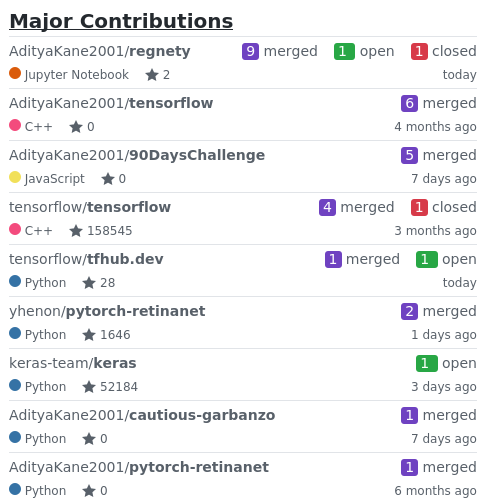
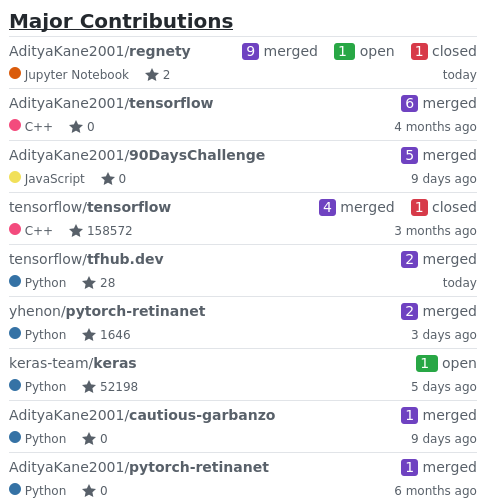
Update resources

diff --git a/contributions.html b/contributions.html
@@ -167,7 +167,7 @@ fieldset{padding:0;margin:0;border:0}label{font-weight:600}.form-control,.form-s
                         </path>
                     </svg>&nbsp;0</div>
             </div>
-            <div class="f6 mt-1">7 days ago</div>
+            <div class="f6 mt-1">9 days ago</div>
         </div>
     </div>
         <div class="border-top py-1">
@@ -194,7 +194,7 @@ fieldset{padding:0;margin:0;border:0}label{font-weight:600}.form-control,.form-s
                         <path fill-rule="evenodd"
                             d="M14 6l-4.9-.64L7 1 4.9 5.36 0 6l3.6 3.26L2.67 14 7 11.67 11.33 14l-.93-4.74L14 6z">
                         </path>
-                    </svg>&nbsp;158545</div>
+                    </svg>&nbsp;158572</div>
             </div>
             <div class="f6 mt-1">3 months ago</div>
         </div>
@@ -208,11 +208,7 @@ fieldset{padding:0;margin:0;border:0}label{font-weight:600}.form-control,.form-s
             <div><a target="_blank" class="link-gray no-underline"
             href=https://github.com/search?q=is%3Apr+repo%3Atensorflow%2Ftfhub.dev+author%3AAdityaKane2001+is%3Amerged
             style="cursor: pointer;"><span class="counter merged">
-            1</span>&nbsp;merged</a></div>
-            <div><a target="_blank" class="link-gray no-underline"
-            href=https://github.com/search?q=is%3Apr+repo%3Atensorflow%2Ftfhub.dev+author%3AAdityaKane2001+is%3Aopen
-            style="cursor: pointer;"><span class="counter open">1
-            </span>&nbsp;open</a></div> 
+            2</span>&nbsp;merged</a></div>
         </div>
         </div>
         <div class="d-flex flex-justify-between text-gray">
@@ -252,7 +248,7 @@ fieldset{padding:0;margin:0;border:0}label{font-weight:600}.form-control,.form-s
                         </path>
                     </svg>&nbsp;1646</div>
             </div>
-            <div class="f6 mt-1">1 days ago</div>
+            <div class="f6 mt-1">3 days ago</div>
         </div>
     </div>
         <div class="border-top py-1">
@@ -276,9 +272,9 @@ fieldset{padding:0;margin:0;border:0}label{font-weight:600}.form-control,.form-s
                         <path fill-rule="evenodd"
                             d="M14 6l-4.9-.64L7 1 4.9 5.36 0 6l3.6 3.26L2.67 14 7 11.67 11.33 14l-.93-4.74L14 6z">
                         </path>
-                    </svg>&nbsp;52184</div>
+                    </svg>&nbsp;52198</div>
             </div>
-            <div class="f6 mt-1">3 days ago</div>
+            <div class="f6 mt-1">5 days ago</div>
         </div>
     </div>
         <div class="border-top py-1">
@@ -304,7 +300,7 @@ fieldset{padding:0;margin:0;border:0}label{font-weight:600}.form-control,.form-s
                         </path>
                     </svg>&nbsp;0</div>
             </div>
-            <div class="f6 mt-1">7 days ago</div>
+            <div class="f6 mt-1">9 days ago</div>
         </div>
     </div>
         <div class="border-top py-1">
@@ -359,7 +355,7 @@ fieldset{padding:0;margin:0;border:0}label{font-weight:600}.form-control,.form-s
                         </path>
                     </svg>&nbsp;2</div>
             </div>
-            <div class="f6 mt-1">6 days ago</div>
+            <div class="f6 mt-1">1 days ago</div>
         </div>
     </div>
         <div class="border-top py-1">
@@ -367,7 +363,11 @@ fieldset{padding:0;margin:0;border:0}label{font-weight:600}.form-control,.form-s
         <div><a target="_blank" class="link-gray no-underline"
         href="https://github.com/tensorflow/tensorflow"><span>tensorflow</span>/<span
         class="text-bold">tensorflow</span></a></div>
-        <div class="d-inline-flex flex-justify-end"><div><a target="_blank" class="link-gray no-underline"
+        <div class="d-inline-flex flex-justify-end">
+            <div><a target="_blank" class="link-gray no-underline"
+            href=https://github.com/search?q=is%3Aissue+repo%3Atensorflow%2Ftensorflow+author%3AAdityaKane2001+is%3Aopen
+            style="cursor: pointer;"><span class="counter open">1
+            </span>&nbsp;open</a></div> <div><a target="_blank" class="link-gray no-underline"
             href=https://github.com/search?q=is%3Aissue+repo%3Atensorflow%2Ftensorflow+author%3AAdityaKane2001+is%3Aclosed
             style="cursor: pointer;">
             <span class="counter closed">4</span>&nbsp;closed</a></div>
@@ -382,9 +382,9 @@ fieldset{padding:0;margin:0;border:0}label{font-weight:600}.form-control,.form-s
                         <path fill-rule="evenodd"
                             d="M14 6l-4.9-.64L7 1 4.9 5.36 0 6l3.6 3.26L2.67 14 7 11.67 11.33 14l-.93-4.74L14 6z">
                         </path>
-                    </svg>&nbsp;158545</div>
+                    </svg>&nbsp;158572</div>
             </div>
-            <div class="f6 mt-1">1 days ago</div>
+            <div class="f6 mt-1">today</div>
         </div>
     </div>
         <div class="border-top py-1">
@@ -395,8 +395,11 @@ fieldset{padding:0;margin:0;border:0}label{font-weight:600}.form-control,.form-s
         <div class="d-inline-flex flex-justify-end">
             <div><a target="_blank" class="link-gray no-underline"
             href=https://github.com/search?q=is%3Aissue+repo%3Akeras-team%2Fkeras+author%3AAdityaKane2001+is%3Aopen
-            style="cursor: pointer;"><span class="counter open">3
-            </span>&nbsp;open</a></div> 
+            style="cursor: pointer;"><span class="counter open">2
+            </span>&nbsp;open</a></div> <div><a target="_blank" class="link-gray no-underline"
+            href=https://github.com/search?q=is%3Aissue+repo%3Akeras-team%2Fkeras+author%3AAdityaKane2001+is%3Aclosed
+            style="cursor: pointer;">
+            <span class="counter closed">1</span>&nbsp;closed</a></div>
         </div>
         </div>
         <div class="d-flex flex-justify-between text-gray">
@@ -408,9 +411,9 @@ fieldset{padding:0;margin:0;border:0}label{font-weight:600}.form-control,.form-s
                         <path fill-rule="evenodd"
                             d="M14 6l-4.9-.64L7 1 4.9 5.36 0 6l3.6 3.26L2.67 14 7 11.67 11.33 14l-.93-4.74L14 6z">
                         </path>
-                    </svg>&nbsp;52184</div>
+                    </svg>&nbsp;52198</div>
             </div>
-            <div class="f6 mt-1">1 days ago</div>
+            <div class="f6 mt-1">today</div>
         </div>
     </div>
         <div class="border-top py-1">
@@ -437,9 +440,9 @@ fieldset{padding:0;margin:0;border:0}label{font-weight:600}.form-control,.form-s
                         <path fill-rule="evenodd"
                             d="M14 6l-4.9-.64L7 1 4.9 5.36 0 6l3.6 3.26L2.67 14 7 11.67 11.33 14l-.93-4.74L14 6z">
                         </path>
-                    </svg>&nbsp;1676</div>
+                    </svg>&nbsp;1681</div>
             </div>
-            <div class="f6 mt-1">19 days ago</div>
+            <div class="f6 mt-1">21 days ago</div>
         </div>
     </div>
         <div class="border-top py-1">
@@ -463,9 +466,9 @@ fieldset{padding:0;margin:0;border:0}label{font-weight:600}.form-control,.form-s
                         <path fill-rule="evenodd"
                             d="M14 6l-4.9-.64L7 1 4.9 5.36 0 6l3.6 3.26L2.67 14 7 11.67 11.33 14l-.93-4.74L14 6z">
                         </path>
-                    </svg>&nbsp;117</div>
+                    </svg>&nbsp;118</div>
             </div>
-            <div class="f6 mt-1">18 days ago</div>
+            <div class="f6 mt-1">20 days ago</div>
         </div>
     </div>
         <div class="border-top py-1">
@@ -488,9 +491,9 @@ fieldset{padding:0;margin:0;border:0}label{font-weight:600}.form-control,.form-s
                         <path fill-rule="evenodd"
                             d="M14 6l-4.9-.64L7 1 4.9 5.36 0 6l3.6 3.26L2.67 14 7 11.67 11.33 14l-.93-4.74L14 6z">
                         </path>
-                    </svg>&nbsp;5603</div>
+                    </svg>&nbsp;5608</div>
             </div>
-            <div class="f6 mt-1">15 days ago</div>
+            <div class="f6 mt-1">17 days ago</div>
         </div>
     </div>
         <div class="border-top py-1">
@@ -513,7 +516,7 @@ fieldset{padding:0;margin:0;border:0}label{font-weight:600}.form-control,.form-s
                         <path fill-rule="evenodd"
                             d="M14 6l-4.9-.64L7 1 4.9 5.36 0 6l3.6 3.26L2.67 14 7 11.67 11.33 14l-.93-4.74L14 6z">
                         </path>
-                    </svg>&nbsp;3482</div>
+                    </svg>&nbsp;3488</div>
             </div>
             <div class="f6 mt-1">2 months ago</div>
         </div>
@@ -614,7 +617,7 @@ fieldset{padding:0;margin:0;border:0}label{font-weight:600}.form-control,.form-s
                         <path fill-rule="evenodd"
                             d="M14 6l-4.9-.64L7 1 4.9 5.36 0 6l3.6 3.26L2.67 14 7 11.67 11.33 14l-.93-4.74L14 6z">
                         </path>
-                    </svg>&nbsp;534</div>
+                    </svg>&nbsp;536</div>
             </div>
             <div class="f6 mt-1">4 months ago</div>
         </div>
@@ -639,7 +642,7 @@ fieldset{padding:0;margin:0;border:0}label{font-weight:600}.form-control,.form-s
                         <path fill-rule="evenodd"
                             d="M14 6l-4.9-.64L7 1 4.9 5.36 0 6l3.6 3.26L2.67 14 7 11.67 11.33 14l-.93-4.74L14 6z">
                         </path>
-                    </svg>&nbsp;61</div>
+                    </svg>&nbsp;62</div>
             </div>
             <div class="f6 mt-1">4 months ago</div>
         </div>
